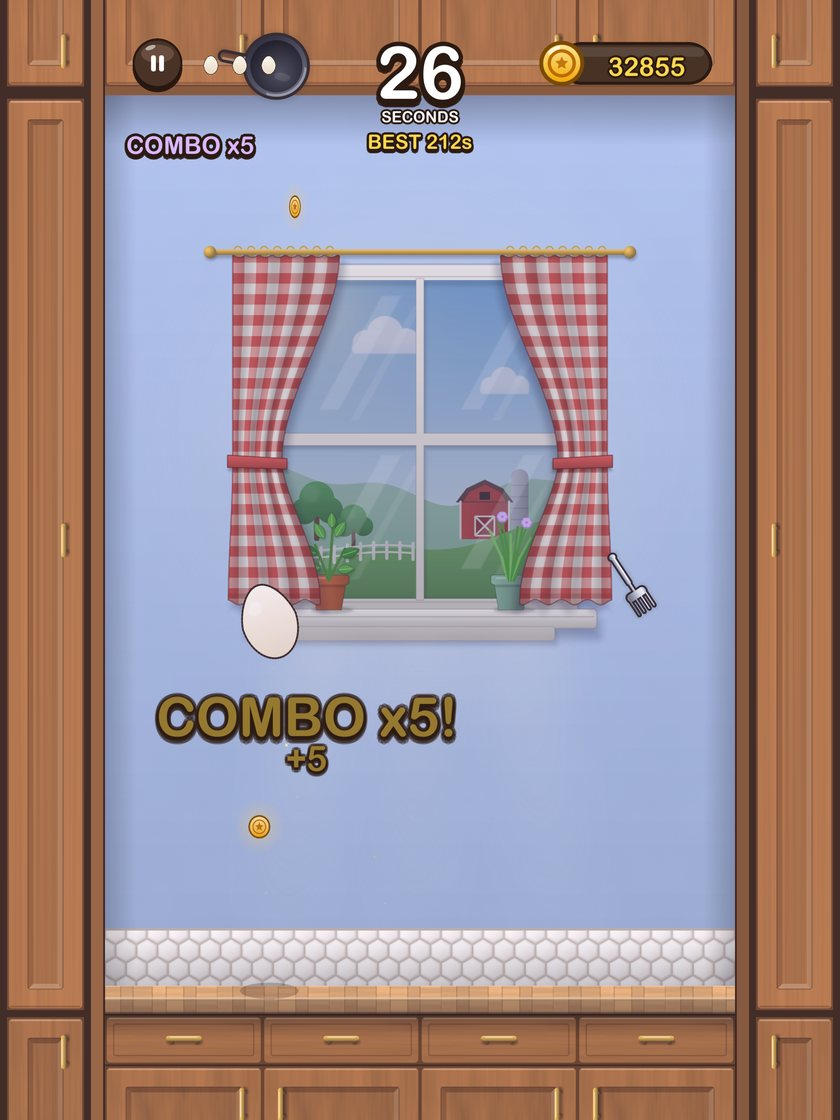
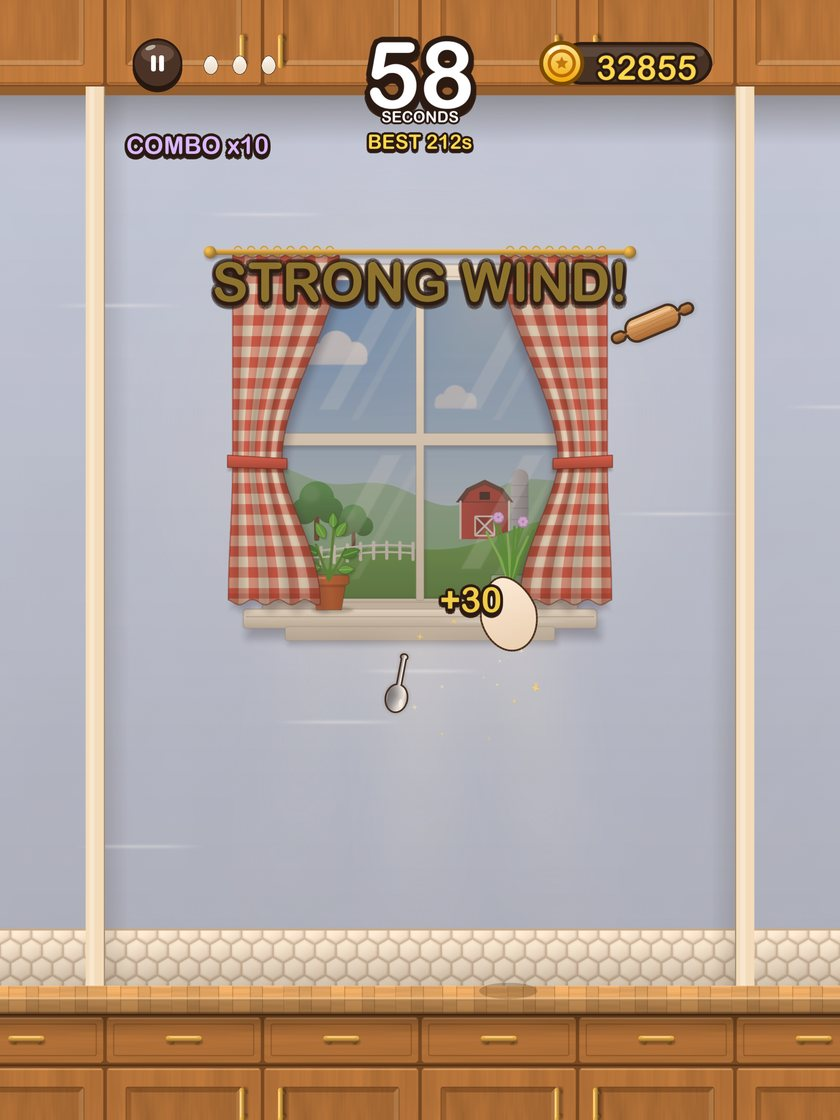
iPad shot: cabinets and counter to the edges, cream side walls

diff --git a/index.html b/index.html
@@ -61,7 +61,7 @@
   <span class="badge">Coming soon to iPhone and iPad</span>
 
   <div class="showcase">
-    <div class="device tablet"><img src="shots/ipad_gameplay.jpg" width="840" height="1120" alt="Egg Bounce Mayhem on iPad: a 5 pickup combo in the kitchen"><span class="cam"></span></div>
+    <div class="device tablet"><img src="shots/ipad_gameplay.jpg" width="840" height="1120" alt="Egg Bounce Mayhem on iPad: the egg riding a strong wind through the kitchen"><span class="cam"></span></div>
     <div class="device phone"><img src="shots/iphone_gameplay.jpg" width="480" height="1043" alt="Egg Bounce Mayhem on iPhone: a 10 pickup combo in the kitchen"><span class="island"></span></div>
   </div>
 </section>
